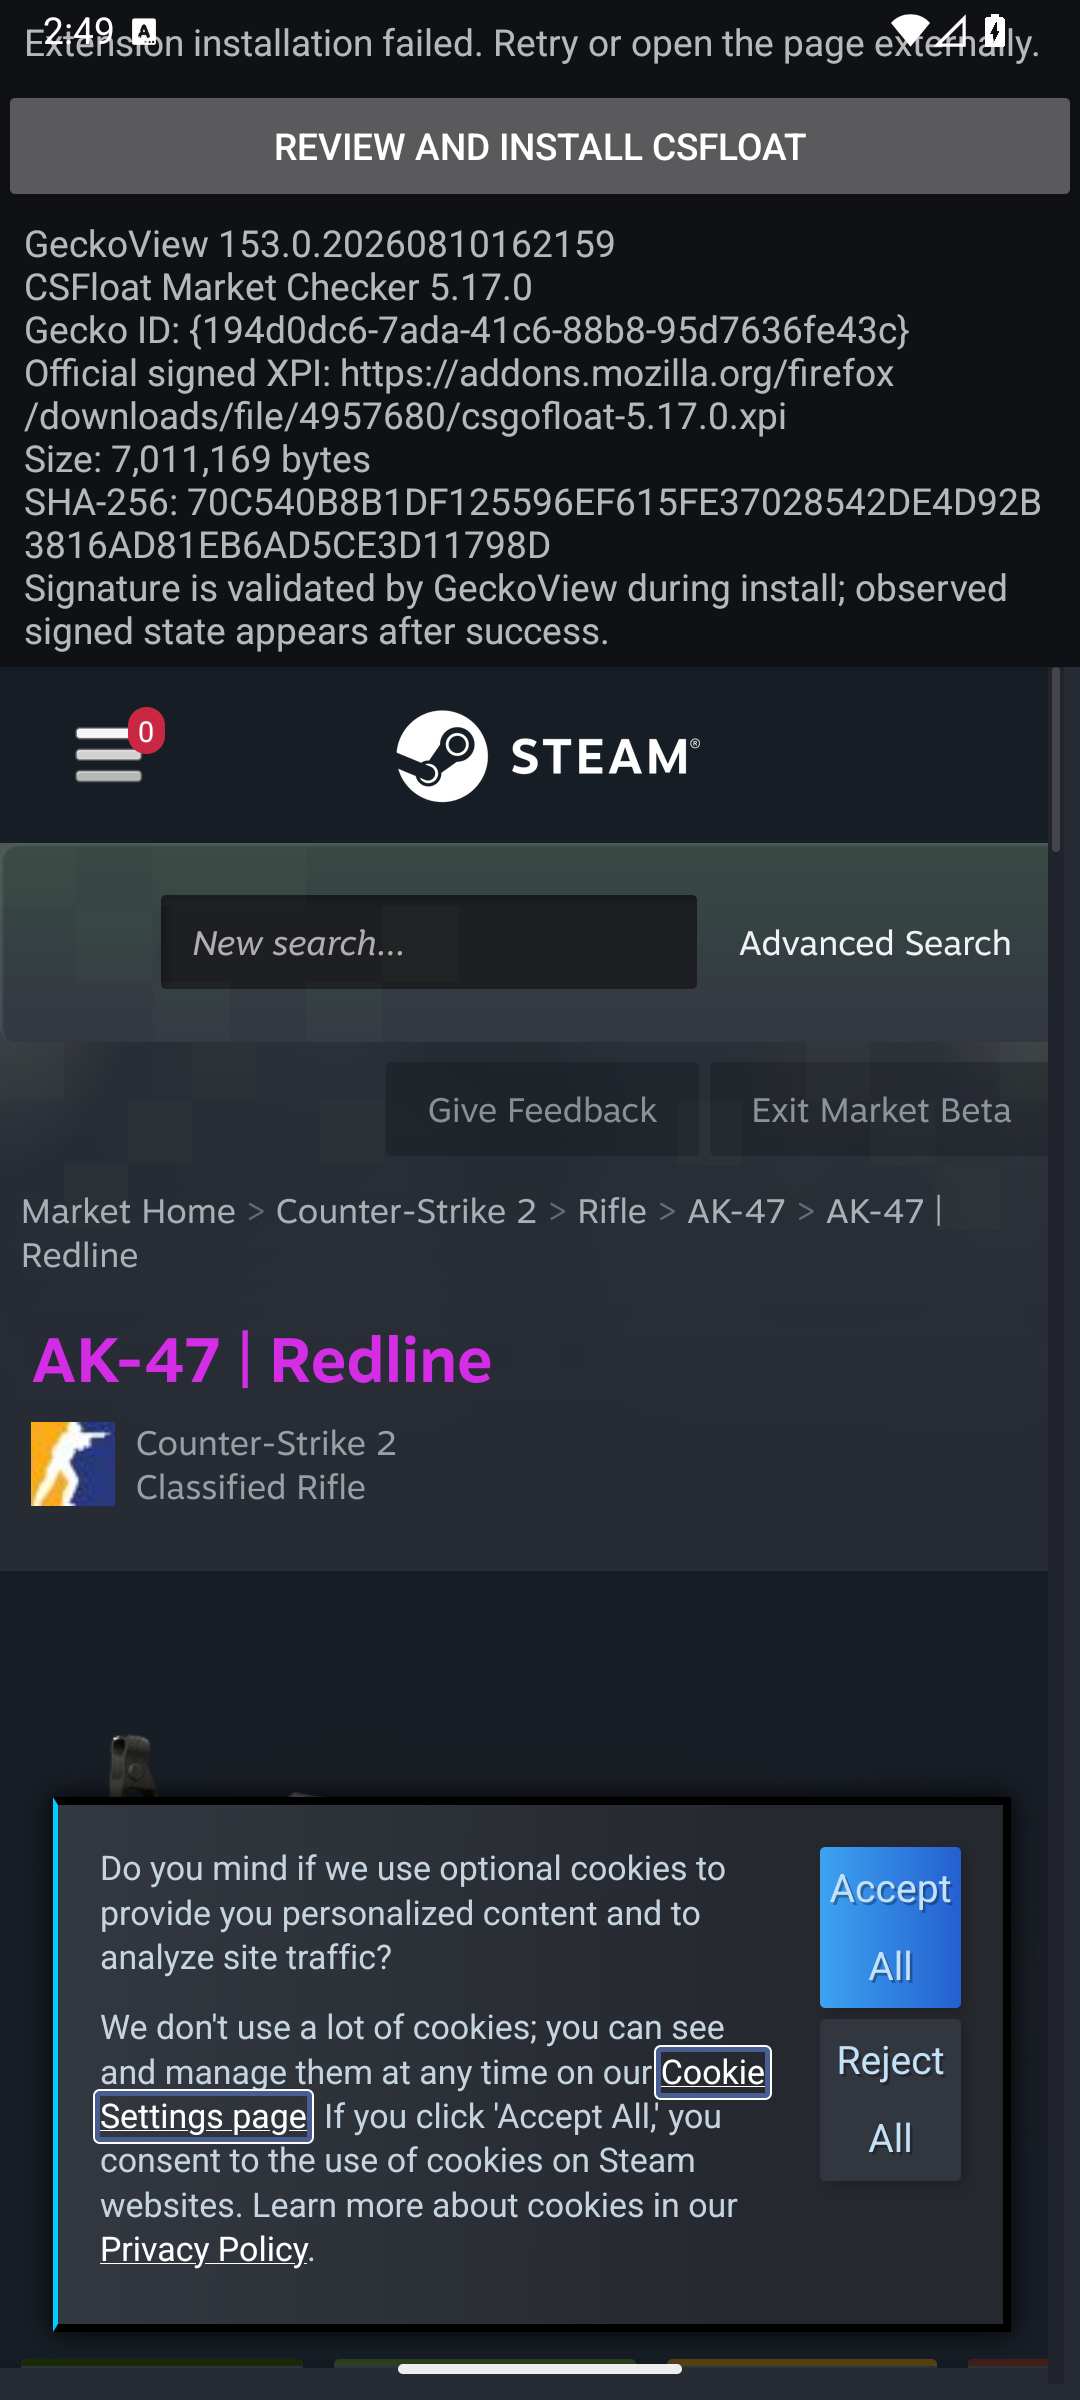
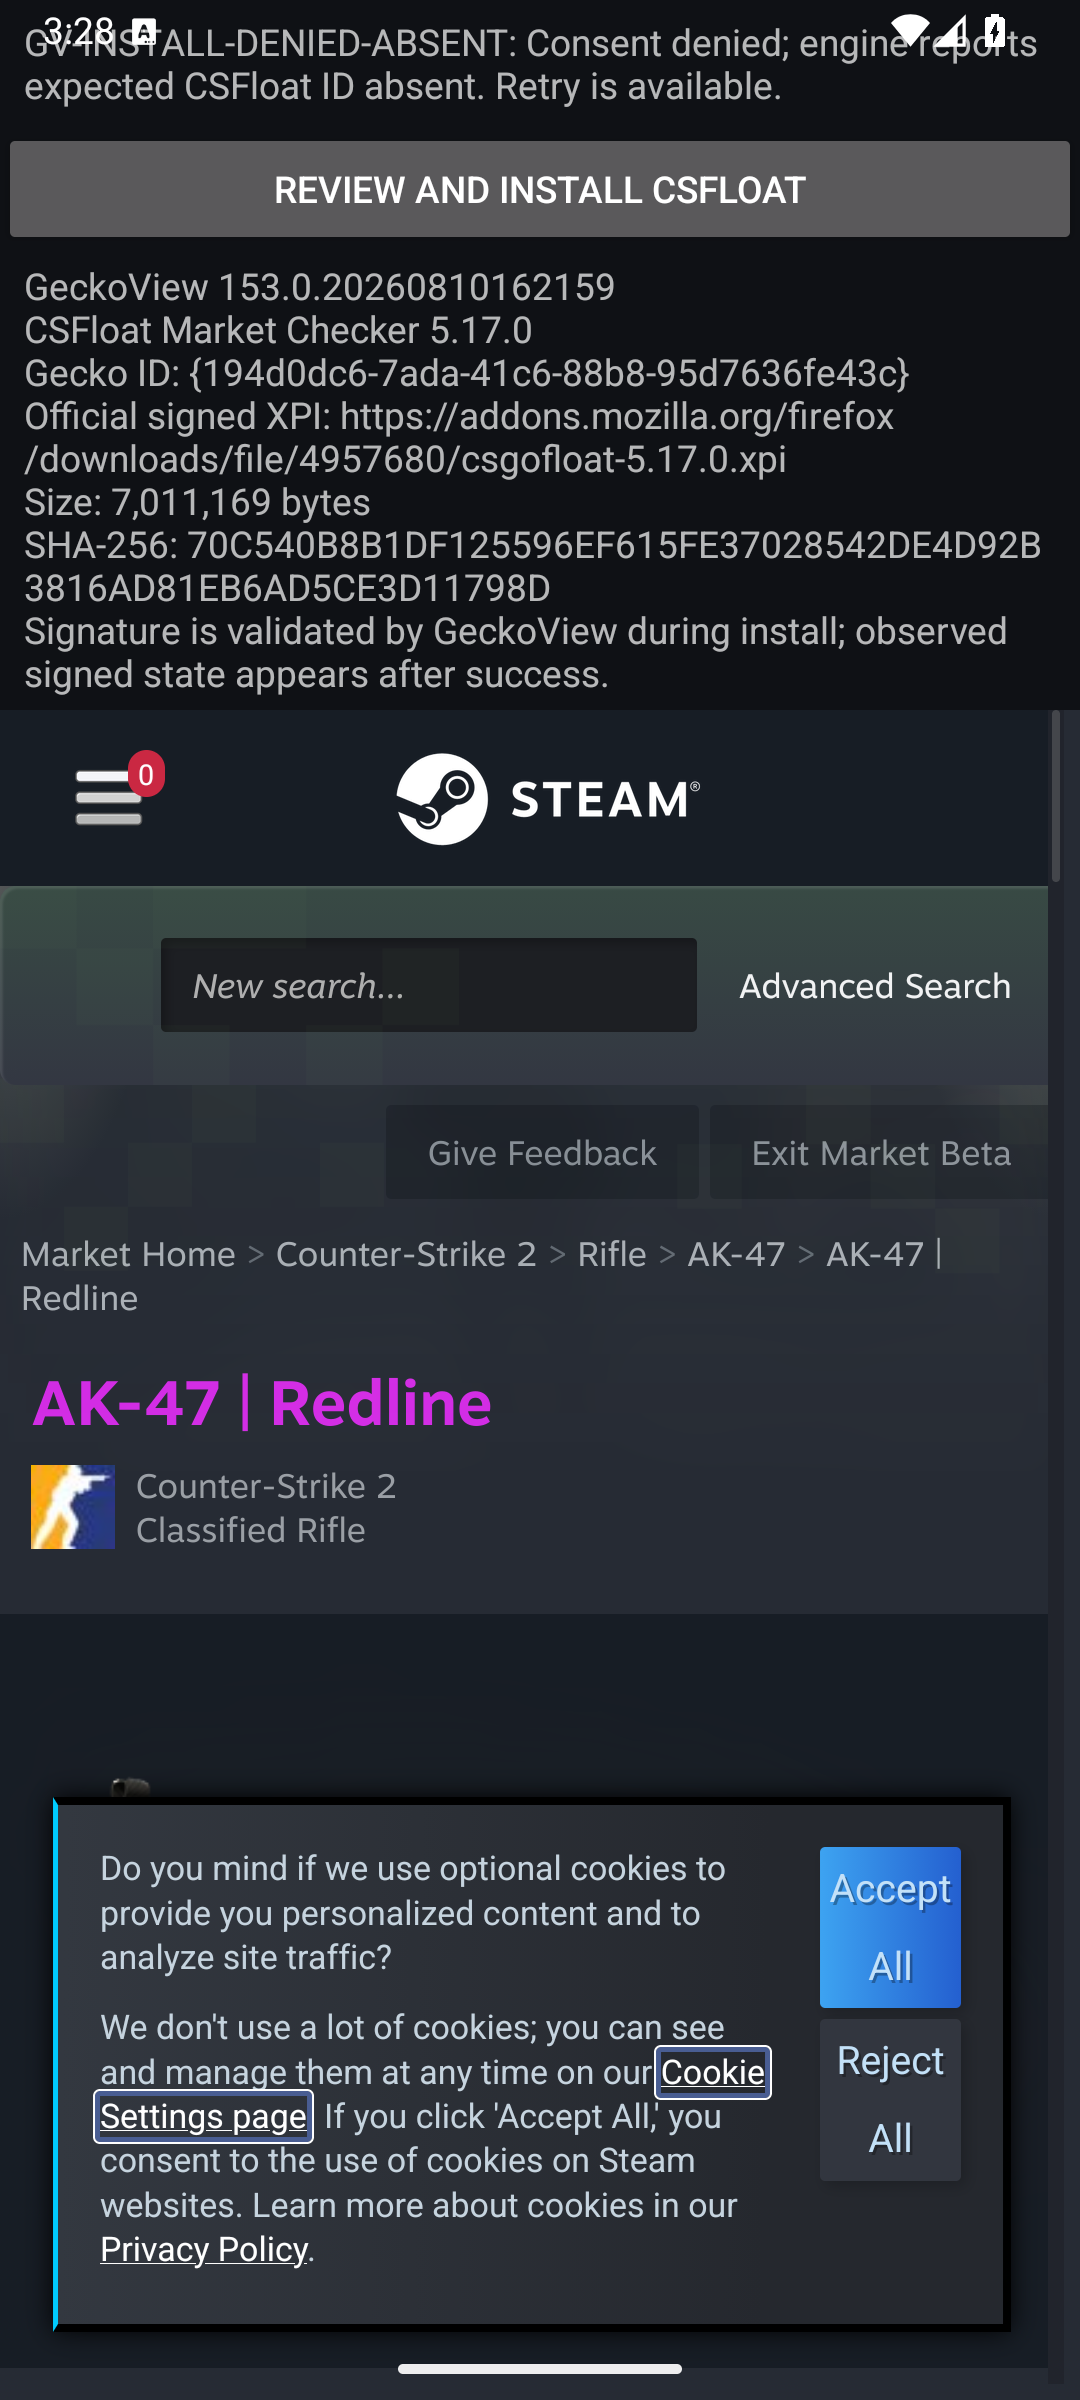
docs(prototype): refresh final issue 4 proof

Changed region(s): [[0.0, 0.0, 1.0, 0.6562], [0.0917, 0.7188, 0.1528, 0.75], [0.9778, 0.2812, 1.0, 0.3125]]

diff --git a/docs/verification/geckoview-issue-4-emulator-run.md b/docs/verification/geckoview-issue-4-emulator-run.md
@@ -8,9 +8,9 @@ not record an issue #7 `GO` decision and does not replace the physical-device ga
 
 | Field | Value |
 | --- | --- |
-| App source commit and build variant | `208a68d20dee380116f112d475652fd574d238d3`, `debug` |
-| Evidence-run HEAD | `dc6fdb140b12ad8b2cc2f51512de26054e9ee9a3`; its only difference after the app source commit is this text record |
[1 lines of base64/hex data omitted]
+| App source commit and build variant | `ff1389d96249161c788d763af8e93973bf71b524`, `debug` |
+| Evidence-run app HEAD | `ff1389d96249161c788d763af8e93973bf71b524`; subsequent evidence-only commits do not change Android or Gradle inputs |
[1 lines of base64/hex data omitted]
 | GeckoView version/channel | `153.0.20260810162159`, stable Maven artifact |
 | CSFloat source | `https://addons.mozilla.org/firefox/downloads/file/4957680/csgofloat-5.17.0.xpi` |
 | CSFloat identity | ID `{194d0dc6-7ada-41c6-88b8-95d7636fe43c}`, version `5.17.0` |
@@ -21,9 +21,9 @@ not record an issue #7 `GO` decision and does not replace the physical-device ga
 | Emulator tooling | Android Emulator `36.2.12.0` build `14214601`; adb `36.0.0-13206524` |
 | Android target | Dedicated AVD `Codex_GeckoView_Campaign_API_36`, serial `emulator-5580`, Android 16/API 36, `x86_64`, medium-phone hardware profile |
 | System image | `system-images/android-36/google_apis_playstore/x86_64`; fingerprint `google/sdk_gphone64_x86_64/emu64xa:16/BE2A.250530.026.D1/13818094:user/release-keys` |
-| Test window | 2026-09-02 12:43:56–12:55:09 UTC |
+| Test window and tester | 2026-09-02 13:24:56–13:31:18 UTC; Codex campaign orchestrator, with an independent `gpt-5.6-sol` medium tester |
 | Runtime/profile/process topology | Debug-only launcher activity in `com.steamaccountmanager.app.debug:gecko_prototype`; one `GeckoRuntime`, one `GeckoSession`, default prototype profile; production WebView activity unchanged |
-| Representative memory sample | Total PSS 272,543 KiB before extension installation and 231,954 KiB after installation and reload, a two-point delta of -40,589 KiB. This noisy emulator sample is recorded for reproduction and is not a performance claim. |
+| Representative memory sample | Total PSS 250,773 KiB before extension installation and 244,771 KiB after installation and reload, a two-point delta of -6,002 KiB. This noisy emulator sample is recorded for reproduction and is not a performance claim. |
 | Gate result | `INCOMPLETE` overall: issue #4 machine scenarios pass; GV-03 and the full issue #7 emulator/physical-device gate remain pending by design. |
 
 ## Commands and results
@@ -36,7 +36,7 @@ Gradle instrumentation to the dedicated AVD. Every direct adb command used
 $env:ANDROID_HOME="$env:LOCALAPPDATA\Android\Sdk"
 $env:ANDROID_SERIAL='emulator-5580'
 .\gradlew.bat '-Dorg.gradle.java.home=C:/Program Files/Android/Android Studio/jbr' testDebugUnitTest assembleDebug lintDebug --rerun-tasks --stacktrace
-# exit 0: BUILD SUCCESSFUL; 14 unit tests, 0 failures; debug APK assembled; lint passed
+# exit 0: BUILD SUCCESSFUL; 15 unit tests, 0 failures; debug APK assembled; lint passed
 
 .\gradlew.bat '-Dorg.gradle.java.home=C:/Program Files/Android/Android Studio/jbr' connectedDebugAndroidTest --rerun-tasks --stacktrace
 # exit 0: BUILD SUCCESSFUL; 9 instrumentation tests on Codex_GeckoView_Campaign_API_36, 0 failures
@@ -51,12 +51,17 @@ $adb="$env:LOCALAPPDATA\Android\Sdk\platform-tools\adb.exe"
 & $adb -s emulator-5580 shell input tap 540 146
 # exit 0: requested the supported GeckoView extension-install flow
 
-& $adb -s emulator-5580 shell input tap 690 1780
-# exit 0: denied the first GeckoView install prompt
+& $adb -s emulator-5580 shell input tap 690 1850
+# exit 0: denied the first GeckoView install prompt; engine-state query reported expected ID absent
 
-& $adb -s emulator-5580 shell input tap 540 146
-& $adb -s emulator-5580 shell input tap 875 1780
+& $adb -s emulator-5580 shell input tap 540 180
+& $adb -s emulator-5580 shell input tap 875 1850
 # both exit 0: retried and explicitly accepted the second GeckoView install prompt
+
+& $adb -s emulator-5580 shell cmd connectivity airplane-mode enable
+& $adb -s emulator-5580 shell input tap 540 146
+& $adb -s emulator-5580 shell cmd connectivity airplane-mode disable
+# all exit 0: induced and safely recovered from an offline install failure; retry stayed enabled
 
 & $adb -s emulator-5580 shell am force-stop com.steamaccountmanager.app.debug
 & $adb -s emulator-5580 shell am start -W -n 'com.steamaccountmanager.app.debug/com.steamaccountmanager.app.prototype.GeckoViewPrototypeActivity'
@@ -86,13 +91,17 @@ authentication UI.
   [UI hierarchy](evidence/issue-4/gv4-installed.xml)
 - [Visible injection screenshot](evidence/issue-4/gv4-injection.png)
 - [Post-restart injection screenshot](evidence/issue-4/gv4-relaunch-injection.png)
+- [Offline failure screenshot](evidence/issue-4/gv4-offline.png) and
+  [UI hierarchy](evidence/issue-4/gv4-offline.xml)
 - [Bounded warning-or-higher prototype-process log](evidence/issue-4/gv4-bounded-warning-log.txt)
 
 ## Consent evidence
 
 The first install request presented an app-owned dialog titled `Install-time access
-request`, identified `CSFloat Market Checker`, and rendered the callback-derived
-origin list before any grant:
+request`, identified `CSFloat Market Checker`, ID
+`{194d0dc6-7ada-41c6-88b8-95d7636fe43c}`, and version `5.17.0`, and rendered the
+callback-derived origin list before any grant. The callback ID and version were checked
+against the expected constants before the dialog could offer acceptance:
 
 - `*://*.steamcommunity.com/market/listings/730/*`
 - `*://*.steamcommunity.com/id/*/inventory*`
@@ -111,11 +120,17 @@ install callback. The prototype displayed those zero counts exactly instead of
 inventing capabilities. It made no claim that the Firefox artifact exposes a runtime
 optional Steam-host permission.
 
-Denial returned to the still-usable public page, kept the install button enabled, and
-showed `Extension installation failed. Retry or open the page externally.` The next
-explicit attempt presented the same access list and allowed acceptance. Success
-reported `CSFloat Market Checker 5.17.0`, GeckoView signed state `2`, disabled the
-install button, and reloaded the listing.
+Denial returned to the still-usable public page, queried GeckoView's installed-extension
+list, kept retry enabled, and showed `GV-INSTALL-DENIED-ABSENT: Consent denied; engine
+reports expected CSFloat ID absent. Retry is available.` The next explicit attempt
+presented the same access list and allowed acceptance. Success reported `CSFloat Market
+Checker 5.17.0`, GeckoView signed state `2`, disabled the install button, and reloaded
+the listing.
+
+With airplane mode enabled, the same install action finished with
+`GV-INSTALL-FAILED: Could not download or install CSFloat. Check the network and
+retry.` It exposed a stable allow-listed stage code, did not include the underlying
+exception or network state, and kept retry enabled. Airplane mode was then disabled.
 
 ## Scenario results
 
@@ -125,9 +140,9 @@ install button, and reloaded the listing.
 | GV-02 | PASS | The [installed-state hierarchy](evidence/issue-4/gv4-installed.xml) and [screenshot](evidence/issue-4/gv4-installed.png) show that GeckoView's supported install API fetched, signature-validated, installed, and started the pinned official XPI. Identity, versions, source, checksum, and signed state were visible. |
 | GV-03 | NOT RUN | Authenticated evidence is explicitly deferred to issue #7. No account was used in this run. |
 | GV-04 | PASS | The [injection screenshot](evidence/issue-4/gv4-injection.png) shows CSFloat `Pattern Template`, `Wear Rating`, and wear-bar content on the public listing. The [post-restart screenshot](evidence/issue-4/gv4-relaunch-injection.png) shows the same injected content after a full app-process restart. |
-| GV-05 | PASS | The [prompt hierarchy](evidence/issue-4/gv4-prompt.xml) and [screenshot](evidence/issue-4/gv4-prompt.png) show the callback-derived identity and all 11 origins, including `*://*.steampowered.com/*`, before consent. |
-| GV-06 | PASS | The [denial hierarchy](evidence/issue-4/gv4-denied.xml) and [screenshot](evidence/issue-4/gv4-denied.png) show the safe failure explanation, enabled retry, and still-loaded public listing after denial. |
-| GV-07 | PASS | The prompt and installed-state captures together show a later explicit acceptance and the exact signed Firefox artifact at signed state `2`; no silent grant or optional-runtime-permission claim occurred. |
+| GV-05 | PASS | The [prompt hierarchy](evidence/issue-4/gv4-prompt.xml) and [screenshot](evidence/issue-4/gv4-prompt.png) show exact callback ID/version binding and all 11 origins, including `*://*.steampowered.com/*`, before consent. Unit tests reject wrong IDs and versions. |
+| GV-06 | PASS | The [denial hierarchy](evidence/issue-4/gv4-denied.xml) and [screenshot](evidence/issue-4/gv4-denied.png) show GeckoView-observed expected-ID absence, a denial-specific safe explanation, enabled retry, and the still-loaded public listing. |
+| GV-07 | PASS | The prompt and installed-state captures together show a later explicit acceptance and the exact signed Firefox artifact at signed state `2`; mismatched callback identity fails closed, post-install mismatch invokes uninstall, and no silent grant or optional-runtime-permission claim occurs. |
 
 ## Diagnostics and privacy
 
@@ -136,17 +151,30 @@ used only the live prototype PID. It showed
 expected emulator/Gecko initialization warnings (x86 CPU variant, HWUI format,
 Android hidden-API denial, sandboxed sysfs/netlink denial, and unhandled browser-action
 notifications). It contained no crash, app exception, credential, cookie, token,
-account identifier, or trade data. No full logcat or browser storage was collected.
+account identifier, or trade data. The [offline failure capture](evidence/issue-4/gv4-offline.png)
+independently records the safe failure code and recovery action. No full logcat or
+browser storage was collected.
 
 Screenshots and UI hierarchy captures were inspected before commit. They contain only
 the debug prototype, its consent dialog, and a public Steam listing. Integrity hashes
 for the committed screenshots are:
 
[11 lines of base64/hex data omitted]
+
+## Build-enabling scope
+
+GeckoView 153 is the latest available stable release compatible with the installed
+API 36 SDK; newer stable releases require API 37 and a newer Android toolchain. Its
+metadata required compile SDK 36 and AGP 8.6–8.9.1 or later. Moving to AGP 8.11.2 and
+Gradle 8.13 then required the matching Kotlin/Compose/KSP generation and Room 2.8.4.
+No application target/minimum SDK changed. The two production-source changes are
+limited to an API-level guard exposed by upgraded lint and a direct modifier expression
+required to clear the same lint run; neither replaces or changes production browsing.
 
 ## Known limitations
 
